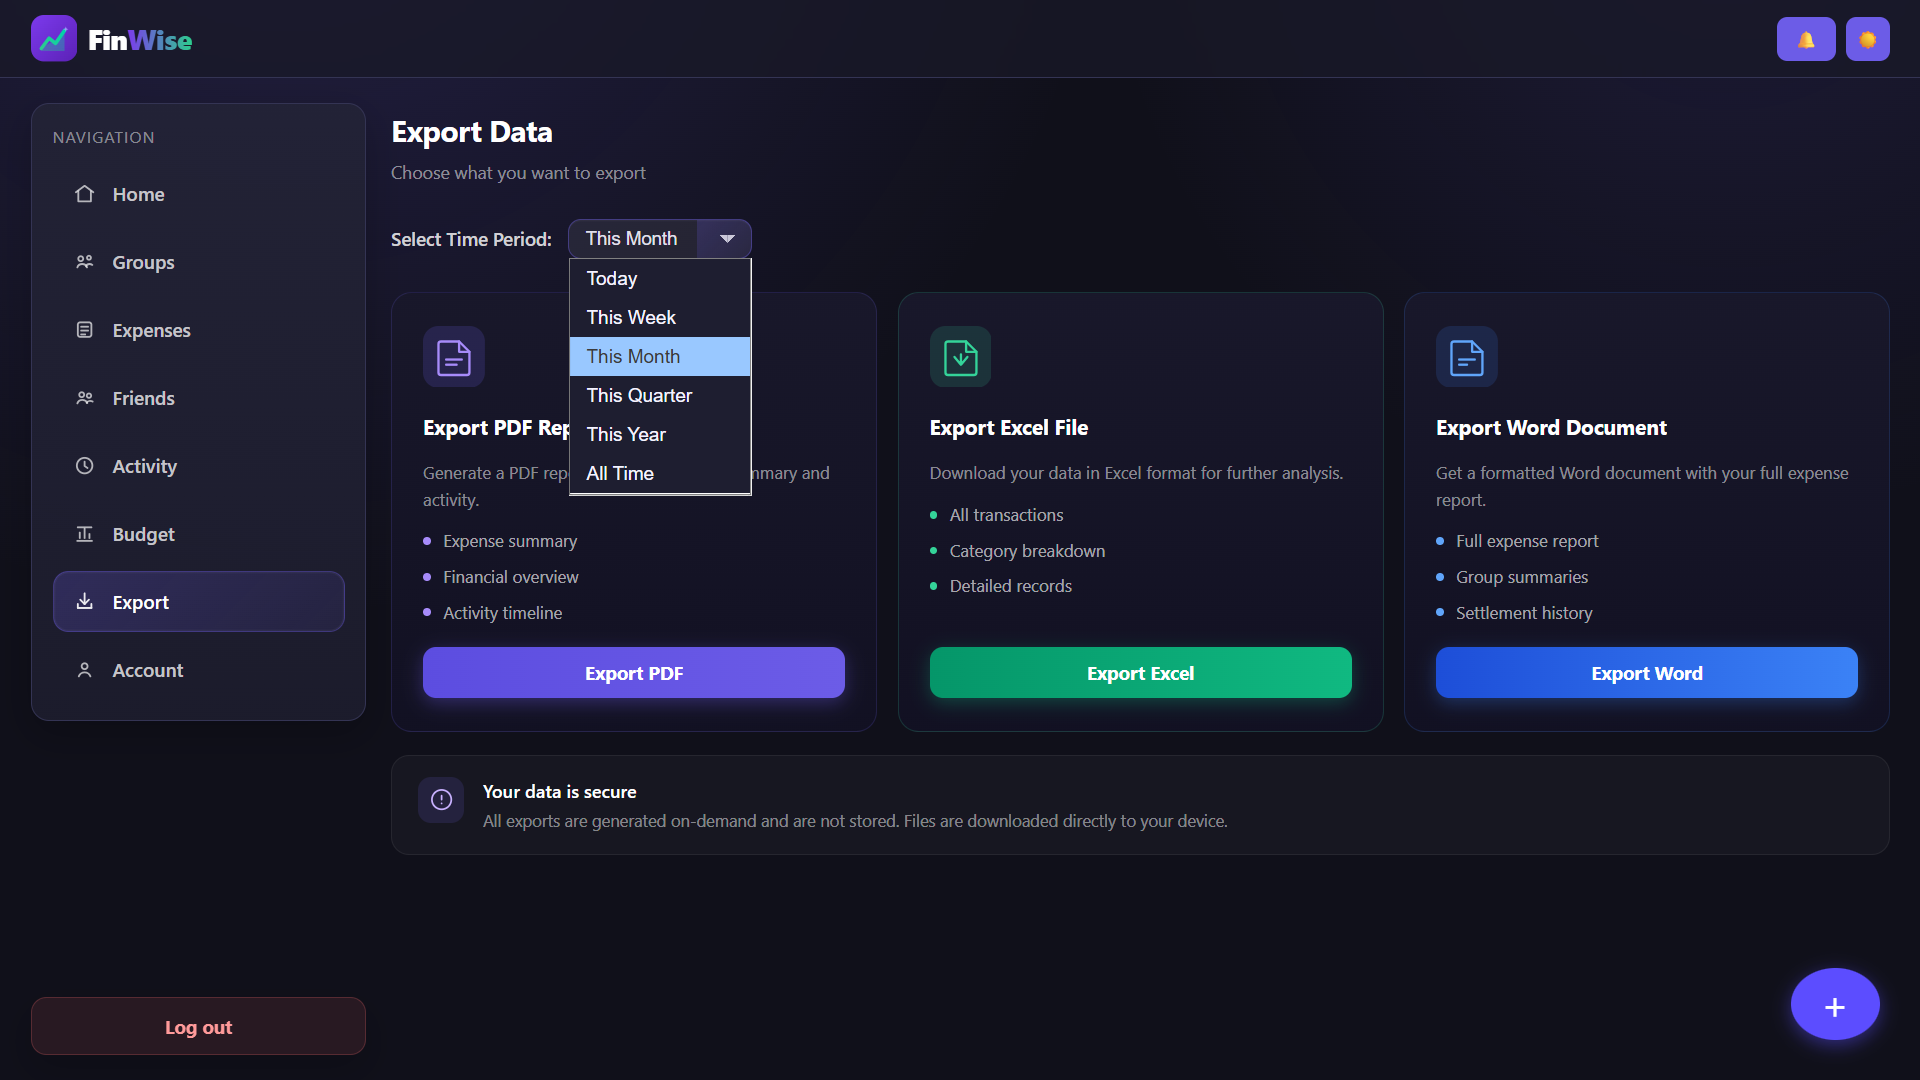
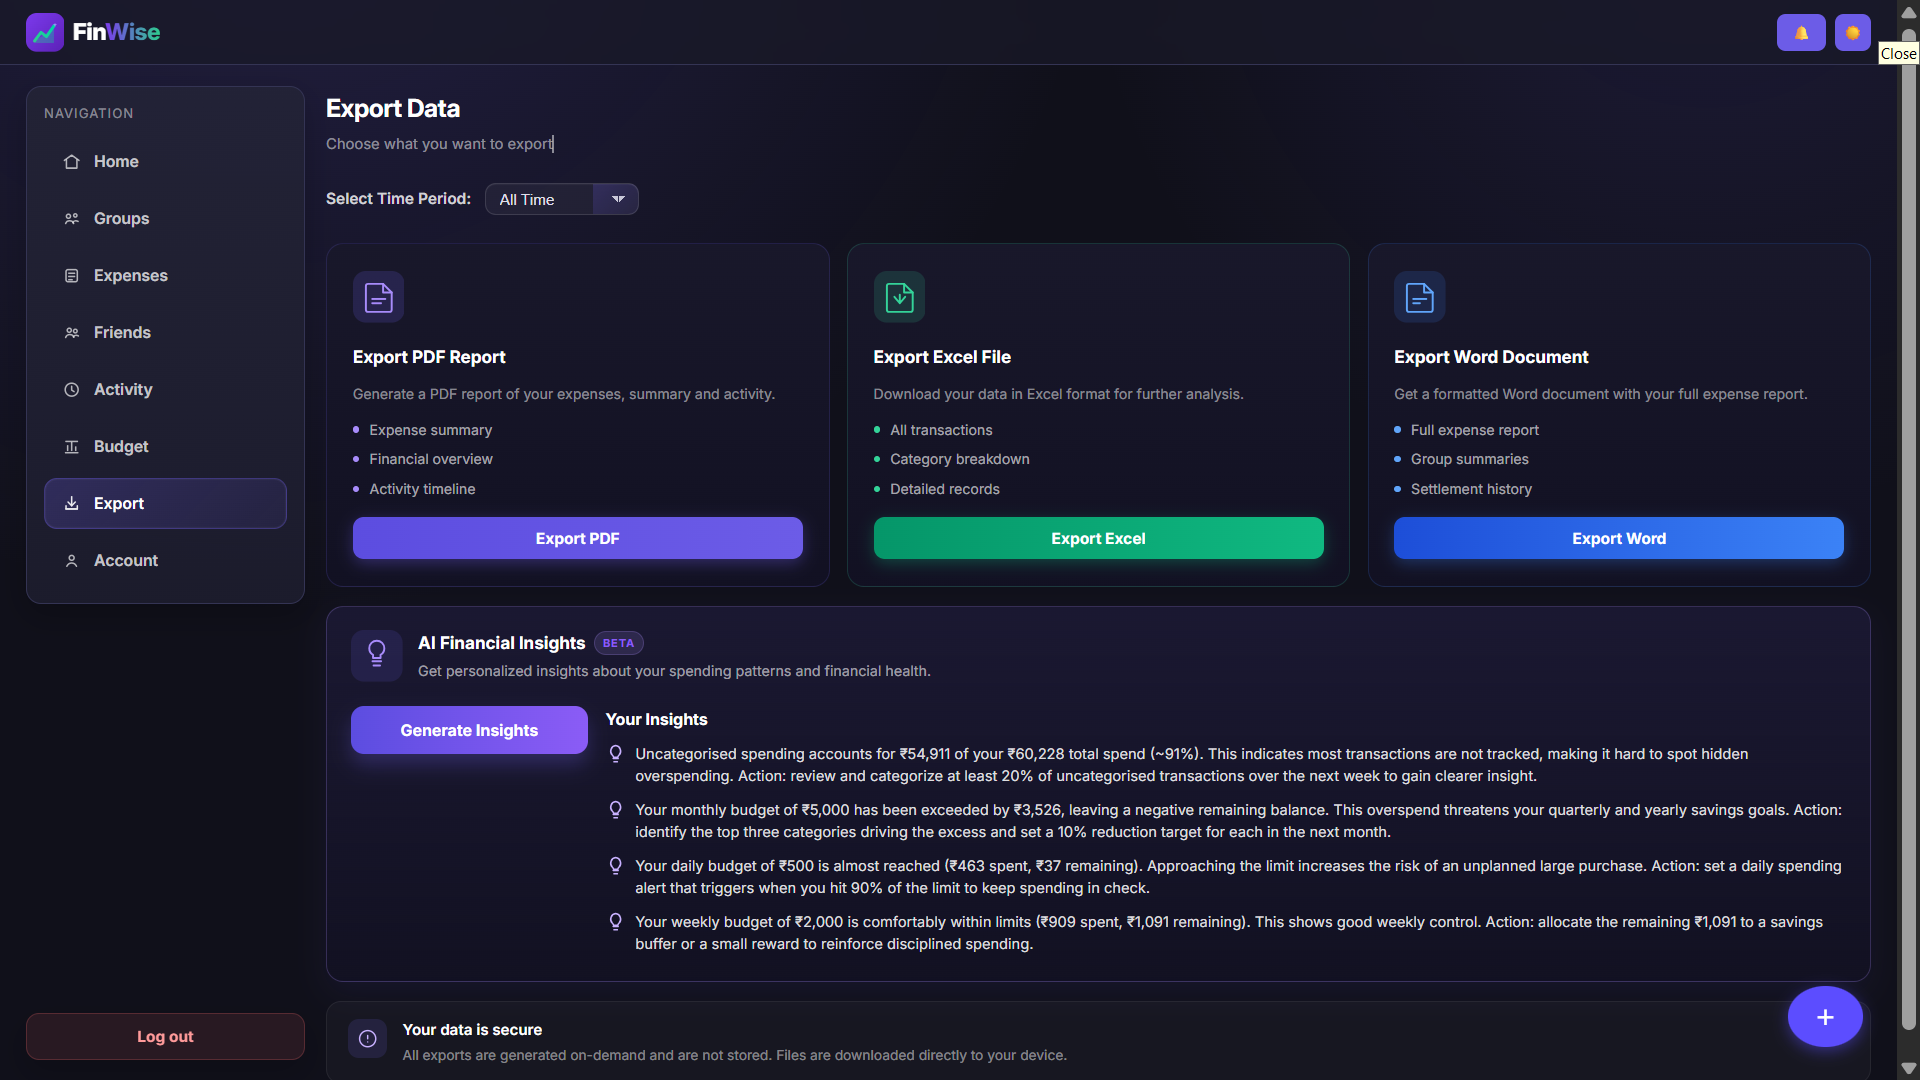
adding feature ai-categorization of expenses

diff --git a/frontend/src/App.tsx b/frontend/src/App.tsx
@@ -425,7 +425,7 @@ function App() {
   }
 
   function resetExpenseForm() {
-    setExpenseDescription(''); setExpenseTag('miscellaneous'); setExpenseAmount('')
+    setExpenseDescription(''); setExpenseTag('Select'); setExpenseAmount('')
     setExpenseCurrency('INR'); setIsGroupExpense(false); setIsFriendExpense(false)
     setSelectedFriendId(''); setExpenseImageUrl(''); setExpensePayerId('')
     setSplitMode('equal'); setCustomSplits({}); setIsRecurringExpense(false)
@@ -453,7 +453,7 @@ function App() {
   const [groupMemberIds, setGroupMemberIds] = useState<string[]>([])
   const [showCreateGroupPanel, setShowCreateGroupPanel] = useState(false)
   const [expenseDescription, setExpenseDescription] = useState('')
-  const [expenseTag, setExpenseTag] = useState('miscellaneous')
+  const [expenseTag, setExpenseTag] = useState('Select')
   const [expenseAmount, setExpenseAmount] = useState('')
   const [expenseCurrency, setExpenseCurrency] = useState('INR')
   const [isGroupExpense, setIsGroupExpense] = useState(false)
@@ -1099,7 +1099,8 @@ function App() {
     const useGroup = isGroupExpense || isFriendExpense
     const payer = useGroup && expensePayerId ? expensePayerId : currentUserId
     const payload: Record<string, unknown> = {
-      description: expenseDescription, tag: normalizeExpenseTag(expenseTag),
+      description: expenseDescription,
+      tag: expenseTag,
       amount: parseFloat(expenseAmount), currency: expenseCurrency, payerId: payer,
       createdBy: editingExpense ? editingExpense.createdBy : currentUserId,
       participantIds: useGroup && resolvedGroupId

diff --git a/frontend/src/pages/ExpensesPage.tsx b/frontend/src/pages/ExpensesPage.tsx
@@ -741,6 +741,7 @@ export default function ExpensesPage(props: ExpensesPageProps) {
             <svg className="ep-input-icon" width="14" height="14" viewBox="0 0 24 24" fill="none" stroke="currentColor" strokeWidth="2" strokeLinecap="round" strokeLinejoin="round"><path d="M20.59 13.41l-7.17 7.17a2 2 0 0 1-2.83 0L2 12V2h10l8.59 8.59a2 2 0 0 1 0 2.82z"/><line x1="7" y1="7" x2="7.01" y2="7"/></svg>
             <select value={expenseTag} onChange={(e: React.ChangeEvent<HTMLSelectElement>) => setExpenseTag(e.target.value)}
               style={{ paddingLeft: '2.2rem' }}>
+              <option value="Select">Select</option>
               {['groceries','rent','transport','travel','insurance','investments','utilities','subscriptions','health','education','childcare','pets','taxes','gifts','charity','maintenance','loans','fees','entertainment','shopping','miscellaneous'].map(c =>
                 <option key={c} value={c}>{c.charAt(0).toUpperCase() + c.slice(1)}</option>)}
             </select>

diff --git a/backend/src/main/java/com/example/splitwise/service/ExpenseService.java b/backend/src/main/java/com/example/splitwise/service/ExpenseService.java
@@ -23,49 +23,62 @@ import java.util.Set;
 @Service
 public class ExpenseService {
 
+    private static final String DEFAULT_CATEGORY = "Miscellaneous";
+    private static final String SELECT_CATEGORY = "Select";
+
     private final ExpenseRepository expenseRepository;
     private final ActivityRepository activityRepository;
     private final UserRepository userRepository;
     private final ExpenseEditLogService expenseEditLogService;
+    private final ExpenseCategorizationService expenseCategorizationService;
 
     public ExpenseService(ExpenseRepository expenseRepository, ActivityRepository activityRepository,
-                          UserRepository userRepository,ExpenseEditLogService expenseEditLogService) {
+                          UserRepository userRepository,ExpenseEditLogService expenseEditLogService,
+                          ExpenseCategorizationService expenseCategorizationService) {
         this.expenseRepository = expenseRepository;
         this.activityRepository = activityRepository;
         this.userRepository = userRepository;
         this.expenseEditLogService=expenseEditLogService;
+        this.expenseCategorizationService = expenseCategorizationService;
     }
 
     public Expense createExpense(Expense expense) {
-        generateDueRecurringExpenses();
-        if (expense.getId() != null && expense.getId().isBlank()) {
-            expense.setId(null);
-        }
-        normalizeExpense(expense);
-        validateCurrency(expense);
-        validateRecurrence(expense);
-        validateCustomSplits(expense);
 
-        if (expense.getSettledByUser() == null) {
-            Map<String, Boolean> settledMap = new HashMap<>();
-            for (String participantId : expense.getParticipantIds()) {
-            if (!participantId.equals(expense.getPayerId())) {
-            settledMap.put(participantId, false);
-            }
-          }
-          expense.setSettledByUser(settledMap);
-        }
-        expense.setExpenseStatus(Expense.ExpenseStatus.Unsettled);
+generateDueRecurringExpenses();
 
-        System.out.println("[ExpenseService] Received currency: " + expense.getCurrency());
-
-        Expense saved = expenseRepository.save(expense);
-
-        recordExpenseAddedActivities(saved);
-        recordOwedActivities(saved);
-
-        return saved;
+    if (expense.getId() != null && expense.getId().isBlank()) {
+        expense.setId(null);
     }
+
+    normalizeExpense(expense);
+
+    applyCategoryRules(expense);
+
+    validateCurrency(expense);
+    validateRecurrence(expense);
+    validateCustomSplits(expense);
+
+    if (expense.getSettledByUser() == null) {
+        Map<String, Boolean> settledMap = new HashMap<>();
+
+        for (String participantId : expense.getParticipantIds()) {
+            if (!participantId.equals(expense.getPayerId())) {
+                settledMap.put(participantId, false);
+            }
+        }
+
+        expense.setSettledByUser(settledMap);
+    }
+
+    expense.setExpenseStatus(Expense.ExpenseStatus.Unsettled);
+
+    Expense saved = expenseRepository.save(expense);
+
+    recordExpenseAddedActivities(saved);
+    recordOwedActivities(saved);
+
+    return saved;
+}
 
     private Map<String, Object> extractExpenseFields(Expense expense) {
     Map<String, Object> map = new HashMap<>();
@@ -84,6 +97,7 @@ public class ExpenseService {
         }
         generateDueRecurringExpenses();
         normalizeExpense(expense);
+        applyCategoryRules(expense);
         validateRecurrence(expense);
         validateCustomSplits(expense);
         Map<String, Object> oldValues = extractExpenseFields(existing);
@@ -118,9 +132,7 @@ public class ExpenseService {
     }
 
     private void normalizeExpense(Expense expense) {
-        if (expense.getTag() == null || expense.getTag().isBlank()) {
-            expense.setTag("Others");
-        } else {
+        if (expense.getTag() != null) {
             expense.setTag(expense.getTag().trim());
         }
         if (expense.getCurrency() == null) {
@@ -137,6 +149,31 @@ public class ExpenseService {
             expense.setRecurrenceInterval(null);
             expense.setRecurrenceEndDate(null);
         }
+    }
+
+    private void applyCategoryRules(Expense expense) {
+        if (expense == null) {
+            return;
+        }
+
+        String currentTag = expense.getTag();
+        if (!isUncategorized(currentTag)) {
+            expense.setTag(currentTag.trim());
+            return;
+        }
+
+        String categorized = expenseCategorizationService.categorizeExpense(expense.getDescription());
+        expense.setTag(categorized != null && !categorized.isBlank() ? categorized : DEFAULT_CATEGORY);
+    }
+
+    private boolean isUncategorized(String tag) {
+        if (tag == null || tag.isBlank()) {
+            return true;
+        }
+        String normalized = tag.trim().toLowerCase();
+        return SELECT_CATEGORY.toLowerCase().equals(normalized)
+                || "uncategorized".equals(normalized)
+                || "uncategorised".equals(normalized);
     }
 
     private void validateRecurrence(Expense expense) {
@@ -232,6 +269,7 @@ public class ExpenseService {
         generated.setRecurring(false);
         generated.setGeneratedFromRecurringId(template.getId());
         generated.setRecurrenceOccurrenceDate(occurrenceDate);
+        applyCategoryRules(generated);
         return generated;
     }
 

diff --git a/backend/src/main/java/com/example/splitwise/service/ExpenseCategorizationService.java b/backend/src/main/java/com/example/splitwise/service/ExpenseCategorizationService.java
@@ -1,0 +1,148 @@
+package com.example.splitwise.service;
+
+import com.fasterxml.jackson.databind.JsonNode;
+import com.fasterxml.jackson.databind.ObjectMapper;
+import org.springframework.beans.factory.annotation.Value;
+import org.springframework.stereotype.Service;
+
+import java.io.IOException;
+import java.net.URI;
+import java.net.http.HttpClient;
+import java.net.http.HttpRequest;
+import java.net.http.HttpResponse;
+import java.nio.charset.StandardCharsets;
+import java.util.LinkedHashMap;
+import java.util.List;
+import java.util.Locale;
+import java.util.Set;
+
+@Service
+public class ExpenseCategorizationService {
+
+    private static final String GROQ_ENDPOINT = "https://api.groq.com/openai/v1/chat/completions";
+    private static final String DEFAULT_CATEGORY = "miscellaneous";
+    private static final List<String> ALLOWED_CATEGORIES = List.of(
+        "food","groceries",
+        "rent",
+        "transport",
+        "travel",
+        "insurance",
+        "investments",
+        "utilities",
+        "subscriptions",
+        "health",
+        "education",
+        "childcare",
+        "pets",
+        "taxes",
+        "gifts",
+        "charity",
+        "maintenance",
+        "loans",
+        "fees",
+        "entertainment",
+        "shopping",
+        "miscellaneous"
+    );
+    private static final Set<String> ALLOWED_CATEGORY_LOOKUP = Set.copyOf(ALLOWED_CATEGORIES);
+
+    private final ObjectMapper objectMapper;
+    private final HttpClient httpClient;
+    private final String groqApiKey;
+    private final String groqModel;
+
+    public ExpenseCategorizationService(ObjectMapper objectMapper,
+                                        @Value("${groq.api-key:}") String groqApiKey,
+                                        @Value("${groq.model:llama-3.1-8b-instant}") String groqModel) {
+        this.objectMapper = objectMapper;
+        this.httpClient = HttpClient.newHttpClient();
+        this.groqApiKey = groqApiKey;
+        this.groqModel = groqModel;
+    }
+
+    public String categorizeExpense(String expenseDescription) {
+        if (groqApiKey == null || groqApiKey.isBlank()) {
+            return DEFAULT_CATEGORY;
+        }
+
+        String description = expenseDescription == null ? "" : expenseDescription.trim();
+        if (description.isBlank()) {
+            return DEFAULT_CATEGORY;
+        }
+
+        try {
+            LinkedHashMap<String, Object> body = new LinkedHashMap<>();
+            body.put("model", groqModel);
+            body.put("temperature", 0);
+            body.put("max_tokens", 100);
+            body.put("messages", List.of(
+                java.util.Map.of(
+    "role",
+    "system",
+    "content",
+    "Return only the single best category. Use exactly one category from the provided list. Do not explain."
+),
+                java.util.Map.of(
+    "role",
+    "user",
+    "content",
+    "Expense: " + description +
+    ". Categories: " + String.join(",", ALLOWED_CATEGORIES)
+)
+            ));
+
+            HttpRequest request = HttpRequest.newBuilder()
+                    .uri(URI.create(GROQ_ENDPOINT))
+                .timeout(java.time.Duration.ofSeconds(5))
+                    .header("Authorization", "Bearer " + groqApiKey)
+                    .header("Content-Type", "application/json")
+                    .POST(HttpRequest.BodyPublishers.ofString(objectMapper.writeValueAsString(body), StandardCharsets.UTF_8))
+                    .build();
+
+            HttpResponse<String> response = httpClient.send(request, HttpResponse.BodyHandlers.ofString(StandardCharsets.UTF_8));
+            
+
+            if (response.statusCode() < 200 || response.statusCode() >= 300) {
+                return DEFAULT_CATEGORY;
+            }
+
+            String content = objectMapper.readTree(response.body())
+        .path("choices").path(0).path("message").path("content").asText("");
+
+return sanitizeCategory(content);
+        } catch (IOException ex) {
+            return DEFAULT_CATEGORY;
+        } catch (InterruptedException ex) {
+            Thread.currentThread().interrupt();
+            return DEFAULT_CATEGORY;
+        } catch (RuntimeException ex) {
+            return DEFAULT_CATEGORY;
+        }
+    }
+
+    private String sanitizeCategory(String rawResponse) {
+
+    if (rawResponse == null || rawResponse.isBlank()) {
+        return DEFAULT_CATEGORY;
+    }
+
+    String content = rawResponse.trim();
+
+    if (content.startsWith("```") && content.endsWith("```")) {
+        content = content
+                .replaceFirst("^```(?:json)?\\s*", "")
+                .replaceFirst("\\s*```$", "")
+                .trim();
+    }
+
+    if (content.startsWith("\"") && content.endsWith("\"")) {
+        content = content.substring(1, content.length() - 1).trim();
+    }
+
+    if (ALLOWED_CATEGORY_LOOKUP.contains(content)) {
+        return content;
+    }
+
+    return DEFAULT_CATEGORY;
+}
+}

diff --git a/backend/src/main/java/com/example/splitwise/controller/ExpenseController.java b/backend/src/main/java/com/example/splitwise/controller/ExpenseController.java
@@ -10,6 +10,7 @@ import org.springframework.web.bind.annotation.*;
 import org.springframework.http.HttpHeaders;
 import jakarta.servlet.http.HttpServletRequest;
 import com.example.splitwise.service.JwtService;
+import com.example.splitwise.service.ExpenseCategorizationService;
 
 import java.math.BigDecimal;
 import java.util.List;
@@ -26,12 +27,19 @@ public class ExpenseController {
     private final NotificationService notificationService;
     private final JwtService jwtService;
     private final ExpenseRepository expenseRepository;
+    private final ExpenseCategorizationService expenseCategorizationService;
 
-    public ExpenseController(ExpenseService expenseService, NotificationService notificationService, JwtService jwtService, ExpenseRepository expenseRepository) {
+    public ExpenseController(
+        ExpenseService expenseService,
+        NotificationService notificationService,
+        JwtService jwtService,
+        ExpenseRepository expenseRepository,
+        ExpenseCategorizationService expenseCategorizationService) {
         this.expenseService=expenseService;
         this.notificationService = notificationService;
         this.jwtService=jwtService;
         this.expenseRepository=expenseRepository;
+        this.expenseCategorizationService=expenseCategorizationService;
     }
 
     @PutMapping("/{id}")
@@ -51,9 +59,18 @@ public class ExpenseController {
     }
 
     @PostMapping
-    public ResponseEntity<Expense> createExpense(@Valid @RequestBody Expense expense) {
-        return ResponseEntity.ok(expenseService.createExpense(expense));
-    }
+public ResponseEntity<Expense> createExpense(@Valid @RequestBody Expense expense) {
+
+    if ("select".equalsIgnoreCase(expense.getTag())) {
+
+        String aiCategory = expenseCategorizationService
+                .categorizeExpense(expense.getDescription());
+
+        expense.setTag(aiCategory);
+    } 
+
+    return ResponseEntity.ok(expenseService.createExpense(expense));
+}
 
     @DeleteMapping("/{id}")
     public ResponseEntity<Void> deleteExpense(@PathVariable("id") String id) {
@@ -141,4 +158,3 @@ public class ExpenseController {
                                                                             return ResponseEntity.ok(notificationService.sendReminderToFriend(userId, friendId));
                                     }
 }
-
